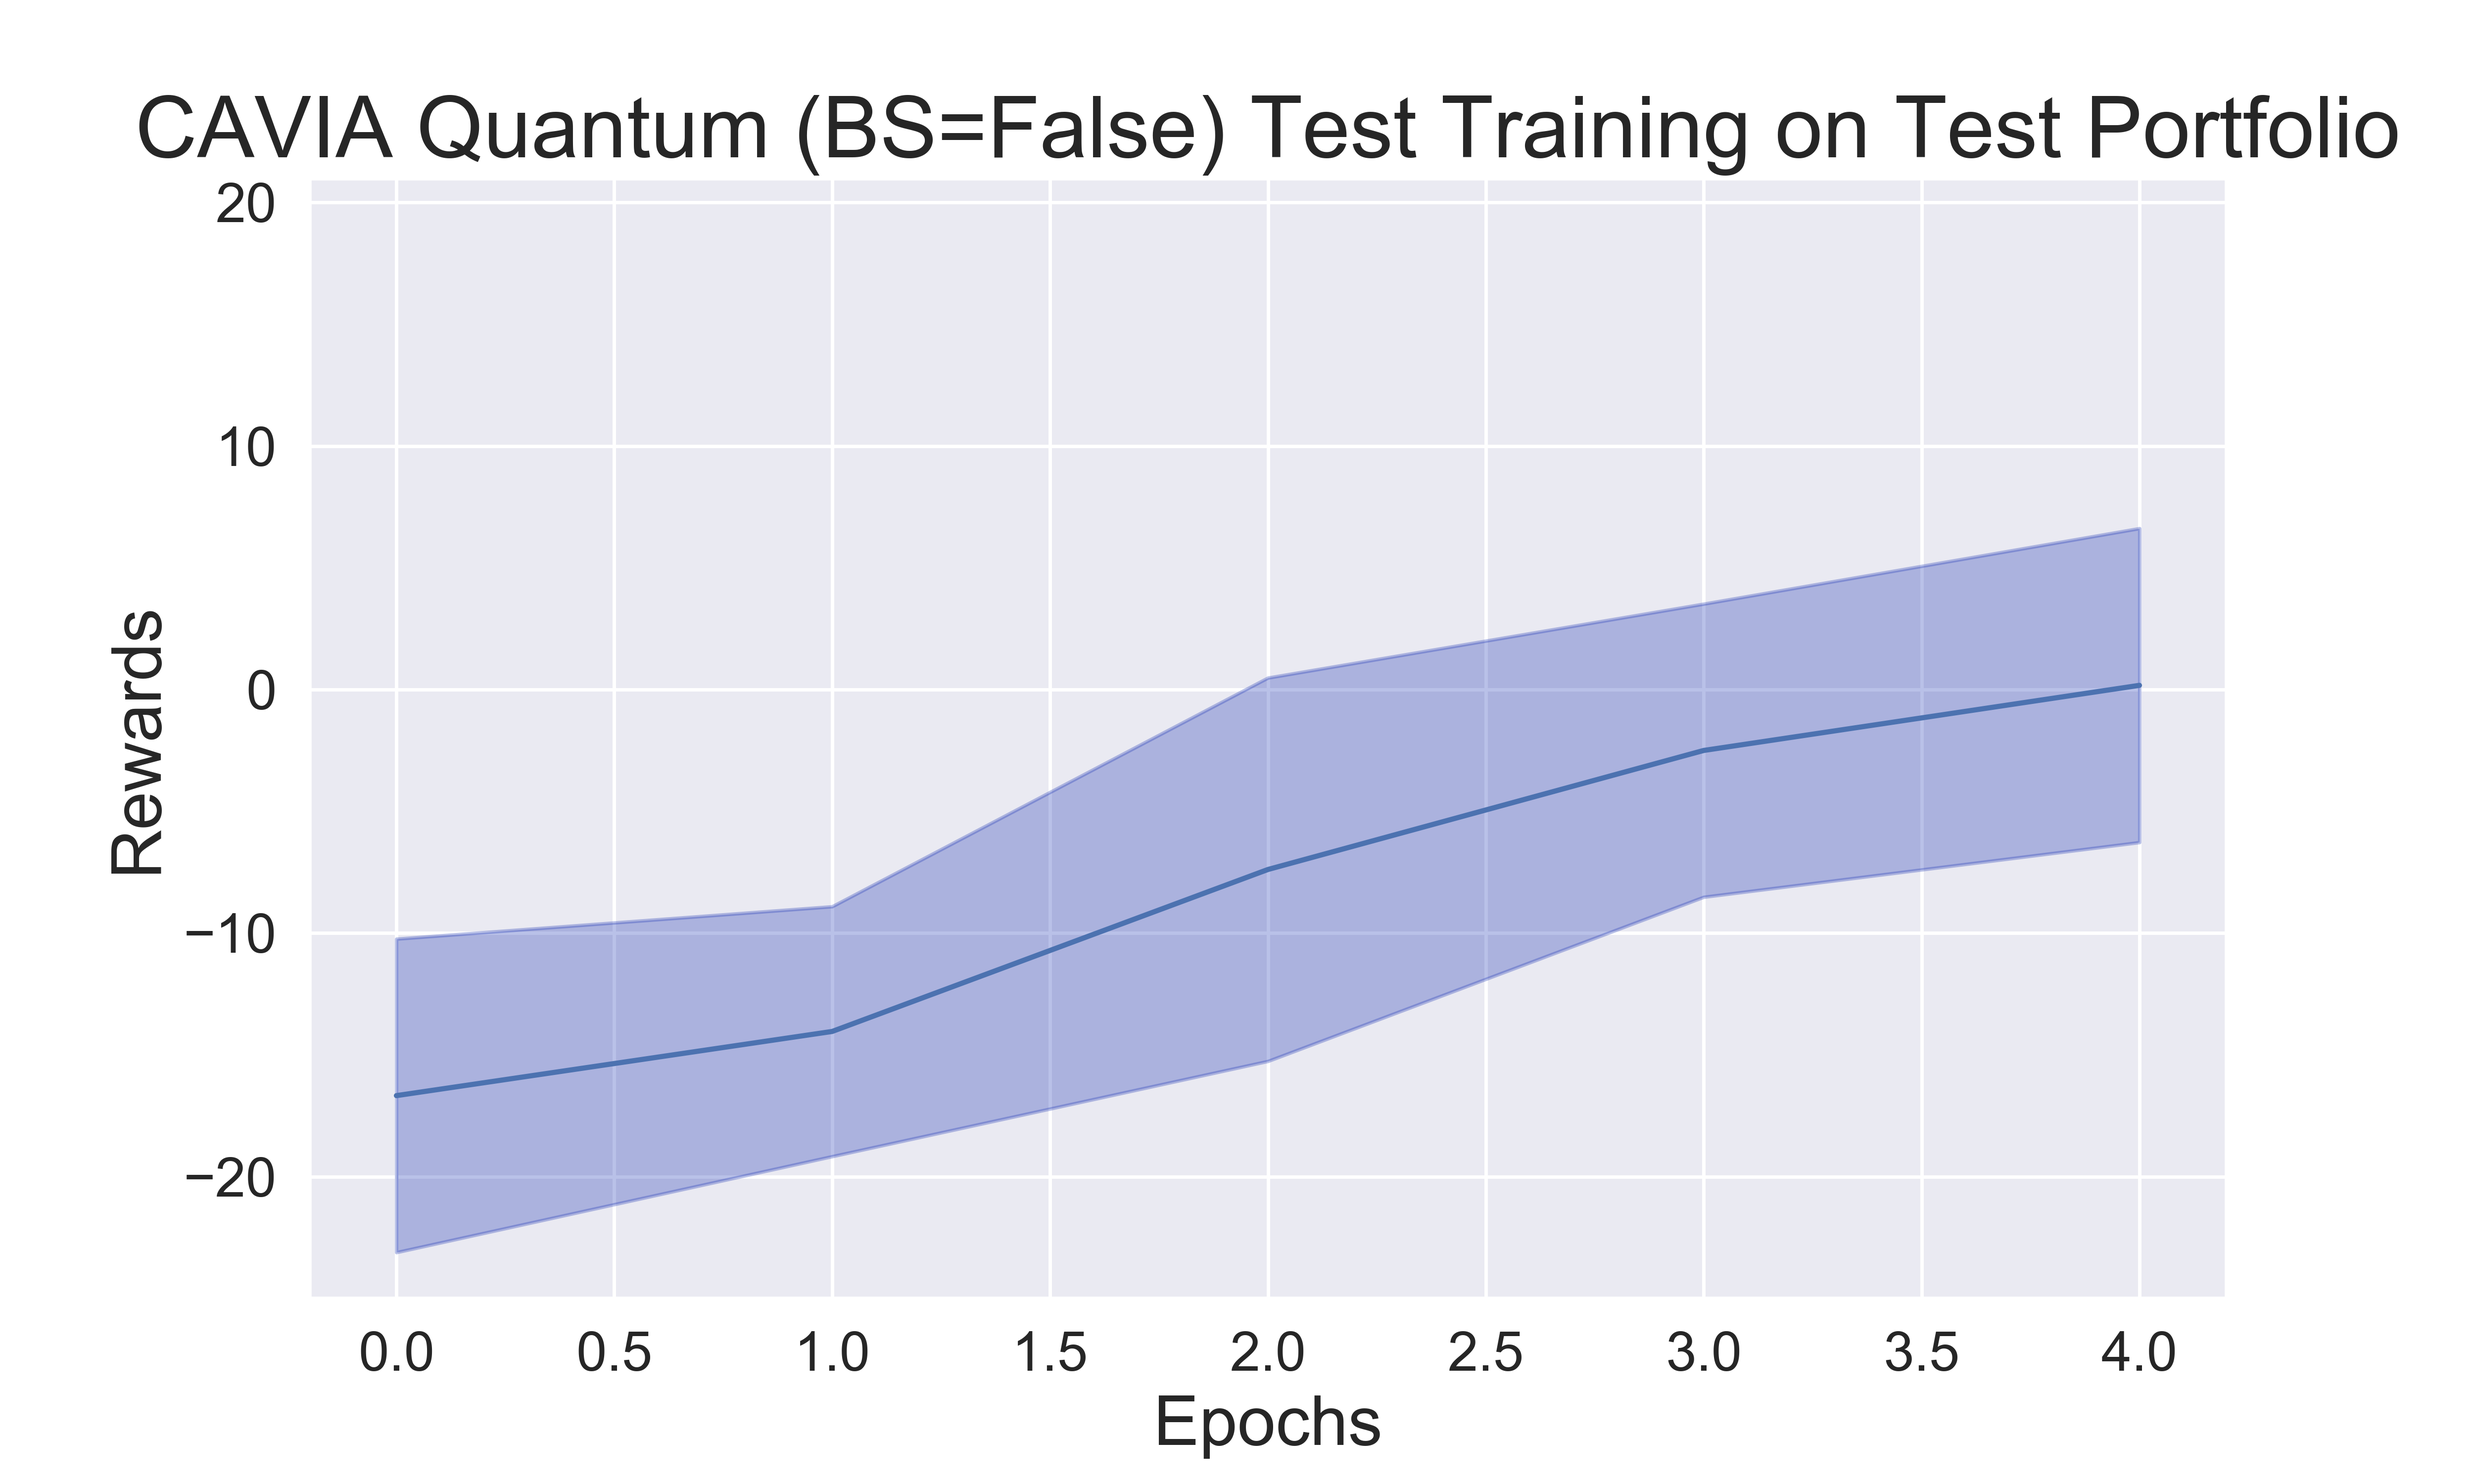
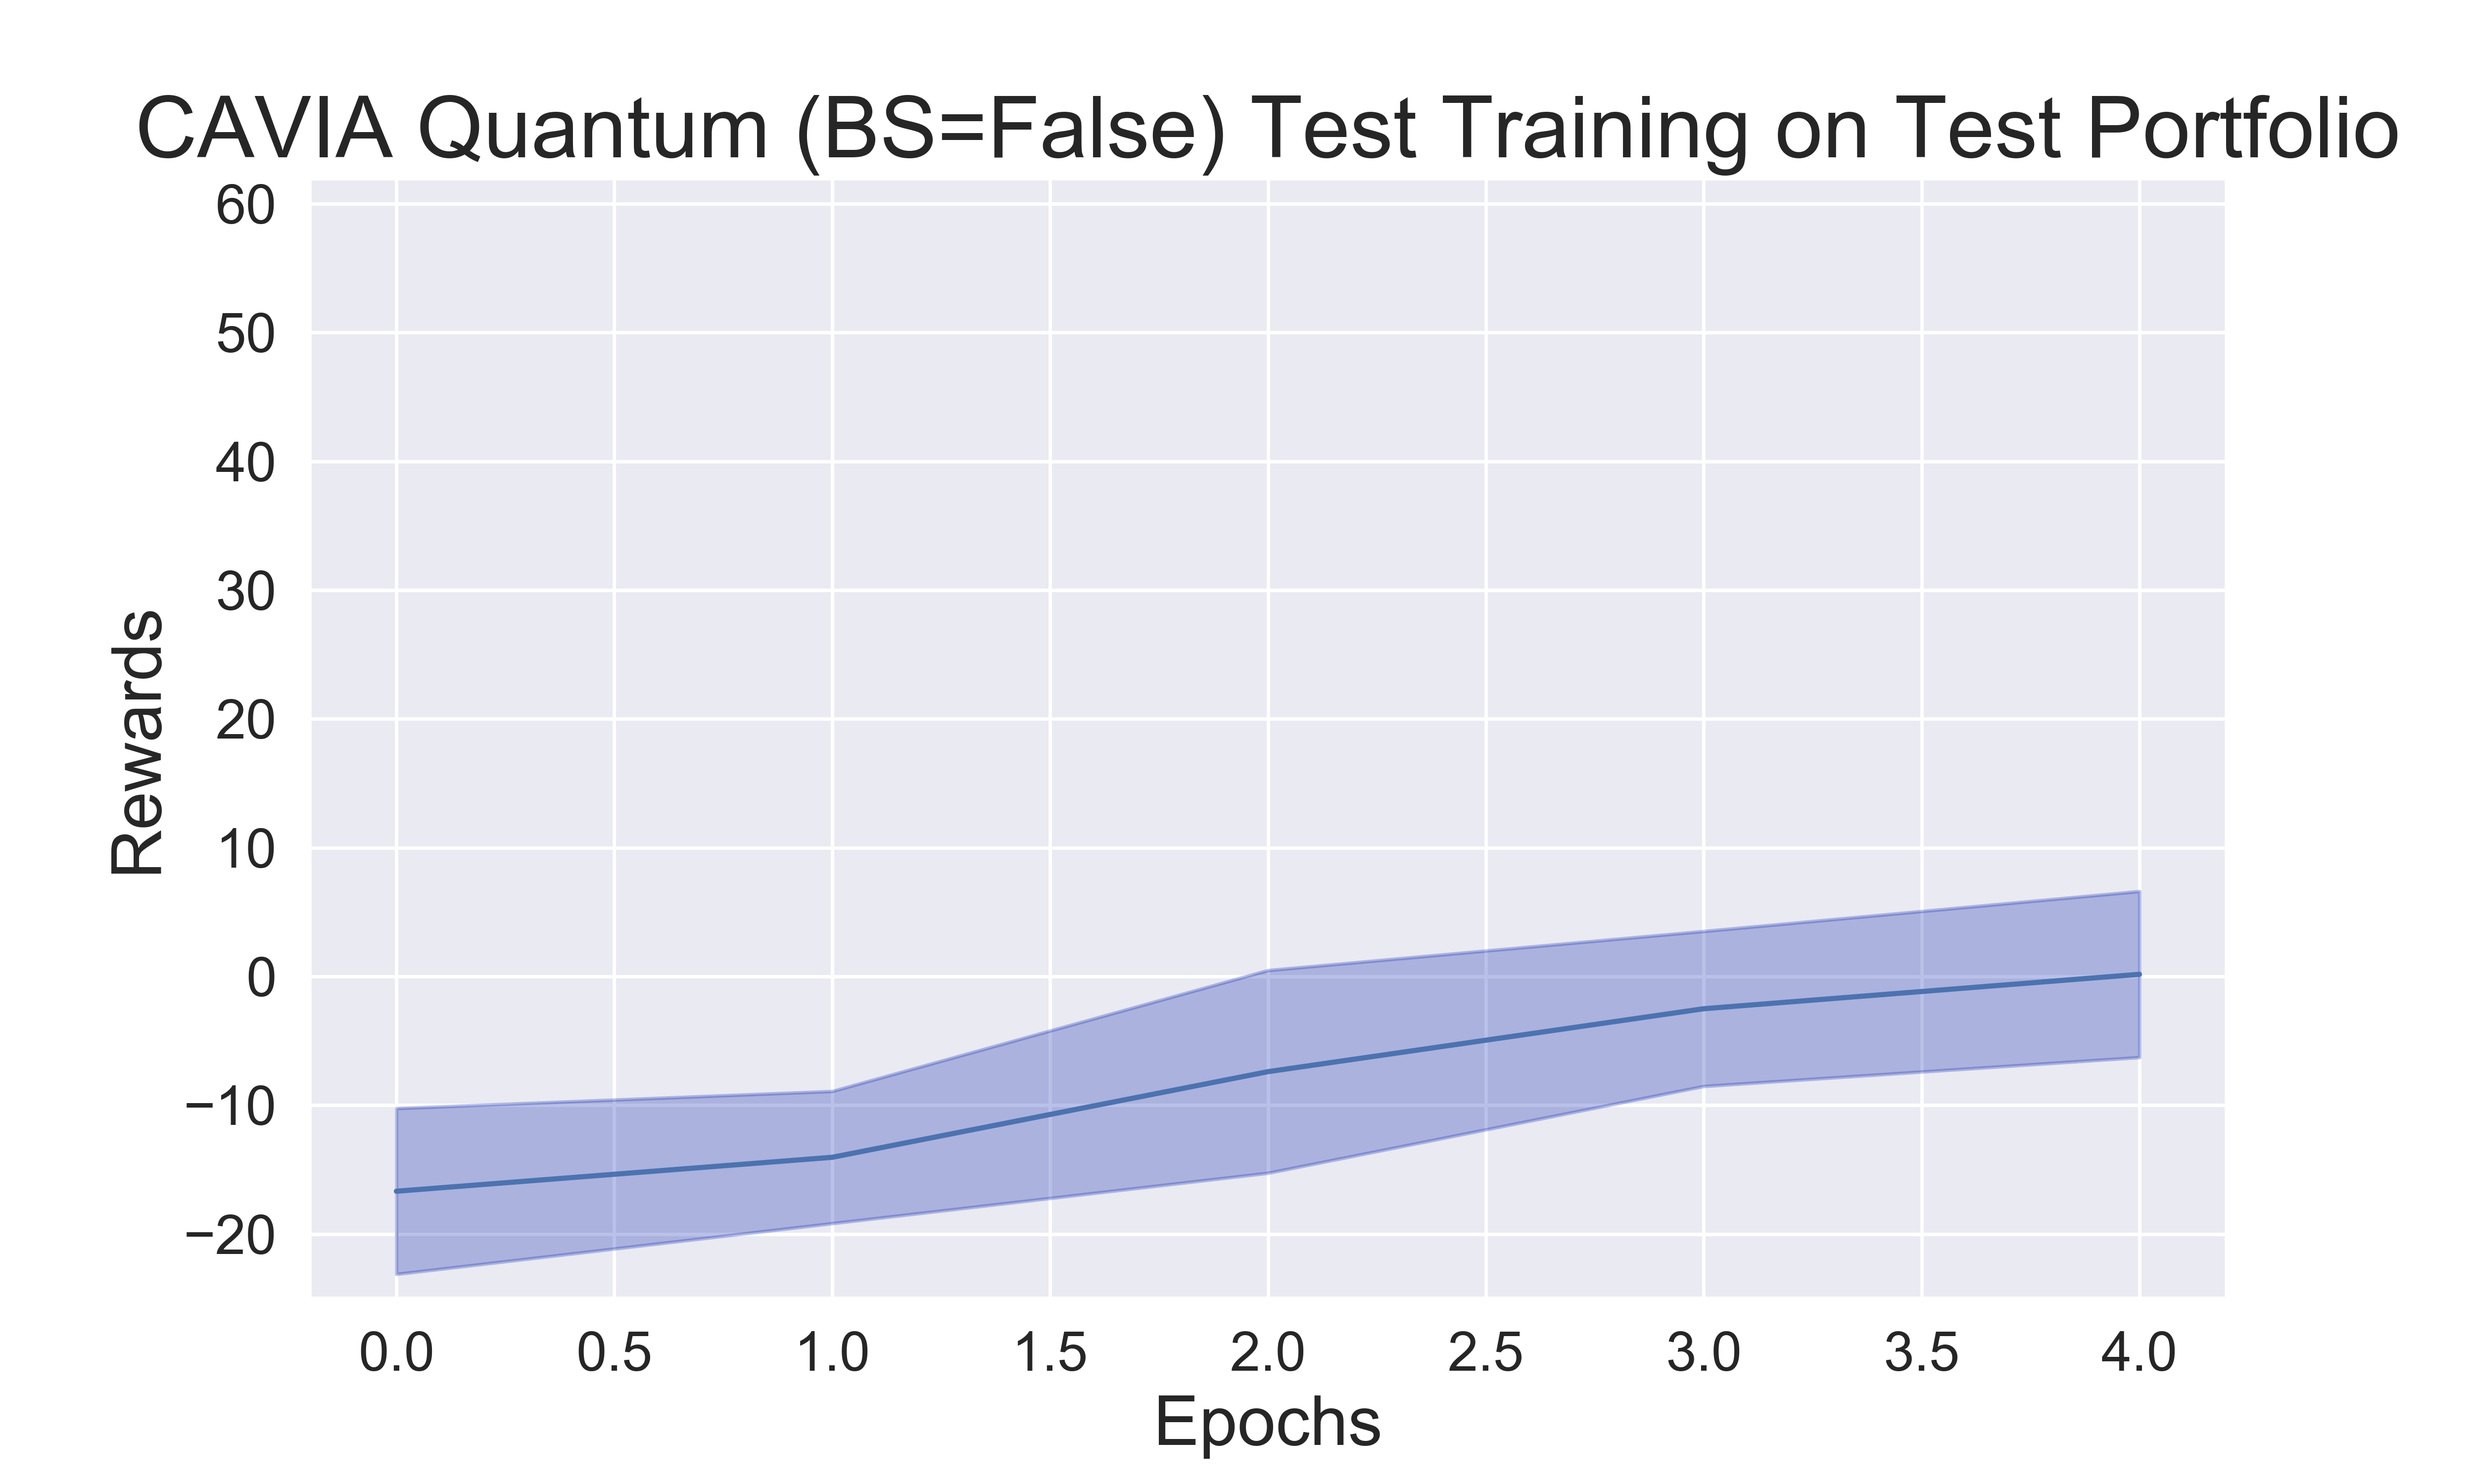
added x scaling to training plots. Made y scaling consistentcy make more sense

diff --git a/NES_Meta_Trading/plot_data.py b/NES_Meta_Trading/plot_data.py
@@ -139,7 +139,7 @@ np.array(wrangle_data('C:/Github/QuantumResearch/NES_Meta_Trading/results/cavia_
 np.array(wrangle_data('C:/Github/QuantumResearch/NES_Meta_Trading/results/cavia_quantum/test/E=5_PS=15_S=0.1_LR=0.03_sk=1_IM=10000_L=None_WS=1_ND=180_NCP=2_BS=True', 'test').std(axis=1))[-1]
 
 
-def training_plot(trial_path, num_remove, ylim, plot_title, plot_save_loc):
+def training_plot(trial_path, num_remove, ylim, plot_title, plot_save_loc, xlim=None):
     df = wrangle_data(trial_path, sample = 'train')
 
     def sigmoid(x):
@@ -156,7 +156,7 @@ def training_plot(trial_path, num_remove, ylim, plot_title, plot_save_loc):
     plt.plot(df.index, df.Mean)
     plt.fill_between(df.index, df.Mean - df.STD, df.Mean + df.STD, color = (0.1,0.2,0.7,0.3))
     plt.ylim(ylim)
-    # plt.xlim(0,500)
+    plt.xlim(xlim)
     plt.xlabel('Epochs')
     plt.ylabel('Rewards')
     plt.title(plot_title)
@@ -301,14 +301,15 @@ training_plot(
     num_remove=0,
     plot_title='MAML Training on CC Stock Portfolios',
     plot_save_loc='C:/Github/QuantumResearch/NES_Meta_Trading/graphics/MAML/MAML_360-20Epochs_12iters_CCData_Limit10_training.png',
-    ylim=(-1,9)
+    ylim=(-1.5,9),
+    xlim=(-10,1000)
 )
 training_plot(
     trial_path='C:/Github/QuantumResearch/NES_Meta_Trading/results/maml/test/E=20_PS=15_S=0.1_LR=0.03_sk=1_IM=10000_L=10_WS=10_ND=360',
     num_remove=0,
     plot_title='MAML Test Training on Test Portfolio',
     plot_save_loc='C:/Github/QuantumResearch/NES_Meta_Trading/graphics/MAML/MAML_360-20Epochs_12iters_CCData_Limit10_testTrain.png',
-    ylim=(-2,4)
+    ylim=(-1.5,9)
 )
 market_test_plot(
     trial_path='C:/Github/QuantumResearch/NES_Meta_Trading/results/maml/test/E=20_PS=15_S=0.1_LR=0.03_sk=1_IM=10000_L=10_WS=10_ND=360',
@@ -329,14 +330,15 @@ training_plot(
     num_remove=0,
     plot_title='CAVIA Training on CC Stock Portfolios',
     plot_save_loc='C:/Github/QuantumResearch/NES_Meta_Trading/graphics/CAVIA/CAVIA_2500-20Epochs_12iters_CCData_Limit10_training.png',
-    ylim=(-1,9)
+    ylim=(-1,6),
+    xlim=(-10,500)
 )
 training_plot(
     trial_path='C:/Github/QuantumResearch/NES_Meta_Trading/results/cavia/test/E=20_PS=15_S=0.1_LR=0.03_sk=1_IM=10000_L=10_WS=10_ND=360',
     num_remove=0,
     plot_title='CAVIA Test Training on Test Portfolio',
     plot_save_loc='C:/Github/QuantumResearch/NES_Meta_Trading/graphics/CAVIA/CAVIA_2500-20Epochs_12iters_CCData_Limit10_testTrain.png',
-    ylim=(-2,4)
+    ylim=(-1,6)
 )
 market_test_plot(
     trial_path='C:/Github/QuantumResearch/NES_Meta_Trading/results/cavia/test/E=20_PS=15_S=0.1_LR=0.03_sk=1_IM=10000_L=10_WS=10_ND=360',
@@ -368,14 +370,14 @@ training_plot(
     num_remove=0,
     plot_title='MAML Quantum (BS=False) Training on CC Stock Portfolios',
     plot_save_loc='C:/Github/QuantumResearch/NES_Meta_Trading/graphics/MAML_Quantum/MAML_Quantum_BSFalse_50-10Epochs_12iters_CCData_LimitNone_training.png',
-    ylim=(-30,70)
+    ylim=(-15,72)
 )
 training_plot(
     trial_path='C:/Github/QuantumResearch/NES_Meta_Trading/results/maml_quantum/test/E=5_PS=15_S=0.1_LR=0.03_sk=1_IM=10000_L=None_WS=1_ND=180_BS=False',
     num_remove=0,
     plot_title='MAML Quantum (BS=False) Test Training on Test Portfolio',
     plot_save_loc='C:/Github/QuantumResearch/NES_Meta_Trading/graphics/MAML_Quantum/MAML_Quantum_BSFalse_50-10Epochs_12iters_CCData_LimitNone_testTrain.png',
-    ylim=(-25, 21)
+    ylim=(-15, 72)
 )
 market_test_plot(
     trial_path='C:/Github/QuantumResearch/NES_Meta_Trading/results/maml_quantum/test/E=5_PS=15_S=0.1_LR=0.03_sk=1_IM=10000_L=None_WS=1_ND=180_BS=False',
@@ -397,14 +399,14 @@ training_plot(
     num_remove=0,
     plot_title='CAVIA Quantum (BS=False) Training on CC Stock Portfolios',
     plot_save_loc='C:/Github/QuantumResearch/NES_Meta_Trading/graphics/CAVIA_Quantum/CAVIA_Quantum_BSFalse_50-10Epochs_12iters_CCData_LimitNone_training.png',
-    ylim=(-30,70)
+    ylim=(-25,62)
 )
 training_plot(
     trial_path='C:/Github/QuantumResearch/NES_Meta_Trading/results/cavia_quantum/test/E=5_PS=15_S=0.1_LR=0.03_sk=1_IM=10000_L=None_WS=1_ND=180_NCP=2_BS=False',
     num_remove=0,
     plot_title='CAVIA Quantum (BS=False) Test Training on Test Portfolio',
     plot_save_loc='C:/Github/QuantumResearch/NES_Meta_Trading/graphics/CAVIA_Quantum/CAVIA_Quantum_BSFalse_50-10Epochs_12iters_CCData_LimitNone_testTrain.png',
-    ylim=(-25, 21)
+    ylim=(-25, 62)
 )
 market_test_plot(
     trial_path='C:/Github/QuantumResearch/NES_Meta_Trading/results/cavia_quantum/test/E=5_PS=15_S=0.1_LR=0.03_sk=1_IM=10000_L=None_WS=1_ND=180_NCP=2_BS=False',
@@ -437,14 +439,14 @@ training_plot(
     num_remove=0,
     plot_title='MAML Quantum (BS=True) Training on CC Stock Portfolios',
     plot_save_loc='C:/Github/QuantumResearch/NES_Meta_Trading/graphics/MAML_Quantum/MAML_Quantum_BSTrue_50-10Epochs_12iters_CCData_LimitNone_training.png',
-    ylim=(-30,70)
+    ylim=(-18,39)
 )
 training_plot(
     trial_path='C:/Github/QuantumResearch/NES_Meta_Trading/results/maml_quantum/test/E=5_PS=15_S=0.1_LR=0.03_sk=1_IM=10000_L=None_WS=1_ND=180_BS=True',
     num_remove=0,
     plot_title='MAML Quantum (BS=True) Test Training on Test Portfolio',
     plot_save_loc='C:/Github/QuantumResearch/NES_Meta_Trading/graphics/MAML_Quantum/MAML_Quantum_BSTrue_50-10Epochs_12iters_CCData_LimitNone_testTrain.png',
-    ylim=(-25, 21)
+    ylim=(-18, 39)
 )
 market_test_plot(
     trial_path='C:/Github/QuantumResearch/NES_Meta_Trading/results/maml_quantum/test/E=5_PS=15_S=0.1_LR=0.03_sk=1_IM=10000_L=None_WS=1_ND=180_BS=True',
@@ -466,14 +468,14 @@ training_plot(
     num_remove=0,
     plot_title='CAVIA Quantum (BS=True) Training on CC Stock Portfolios',
     plot_save_loc='C:/Github/QuantumResearch/NES_Meta_Trading/graphics/CAVIA_Quantum/CAVIA_Quantum_BSTrue_50-10Epochs_12iters_CCData_LimitNone_training.png',
-    ylim=(-30,70)
+    ylim=(-15,37)
 )
 training_plot(
     trial_path='C:/Github/QuantumResearch/NES_Meta_Trading/results/cavia_quantum/test/E=5_PS=15_S=0.1_LR=0.03_sk=1_IM=10000_L=None_WS=1_ND=180_NCP=2_BS=True',
     num_remove=0,
     plot_title='CAVIA Quantum (BS=True) Test Training on Test Portfolio',
     plot_save_loc='C:/Github/QuantumResearch/NES_Meta_Trading/graphics/CAVIA_Quantum/CAVIA_Quantum_BSTrue_50-10Epochs_12iters_CCData_LimitNone_testTrain.png',
-    ylim=(-25, 21)
+    ylim=(-15, 37)
 )
 market_test_plot(
     trial_path='C:/Github/QuantumResearch/NES_Meta_Trading/results/cavia_quantum/test/E=5_PS=15_S=0.1_LR=0.03_sk=1_IM=10000_L=None_WS=1_ND=180_NCP=2_BS=True',
